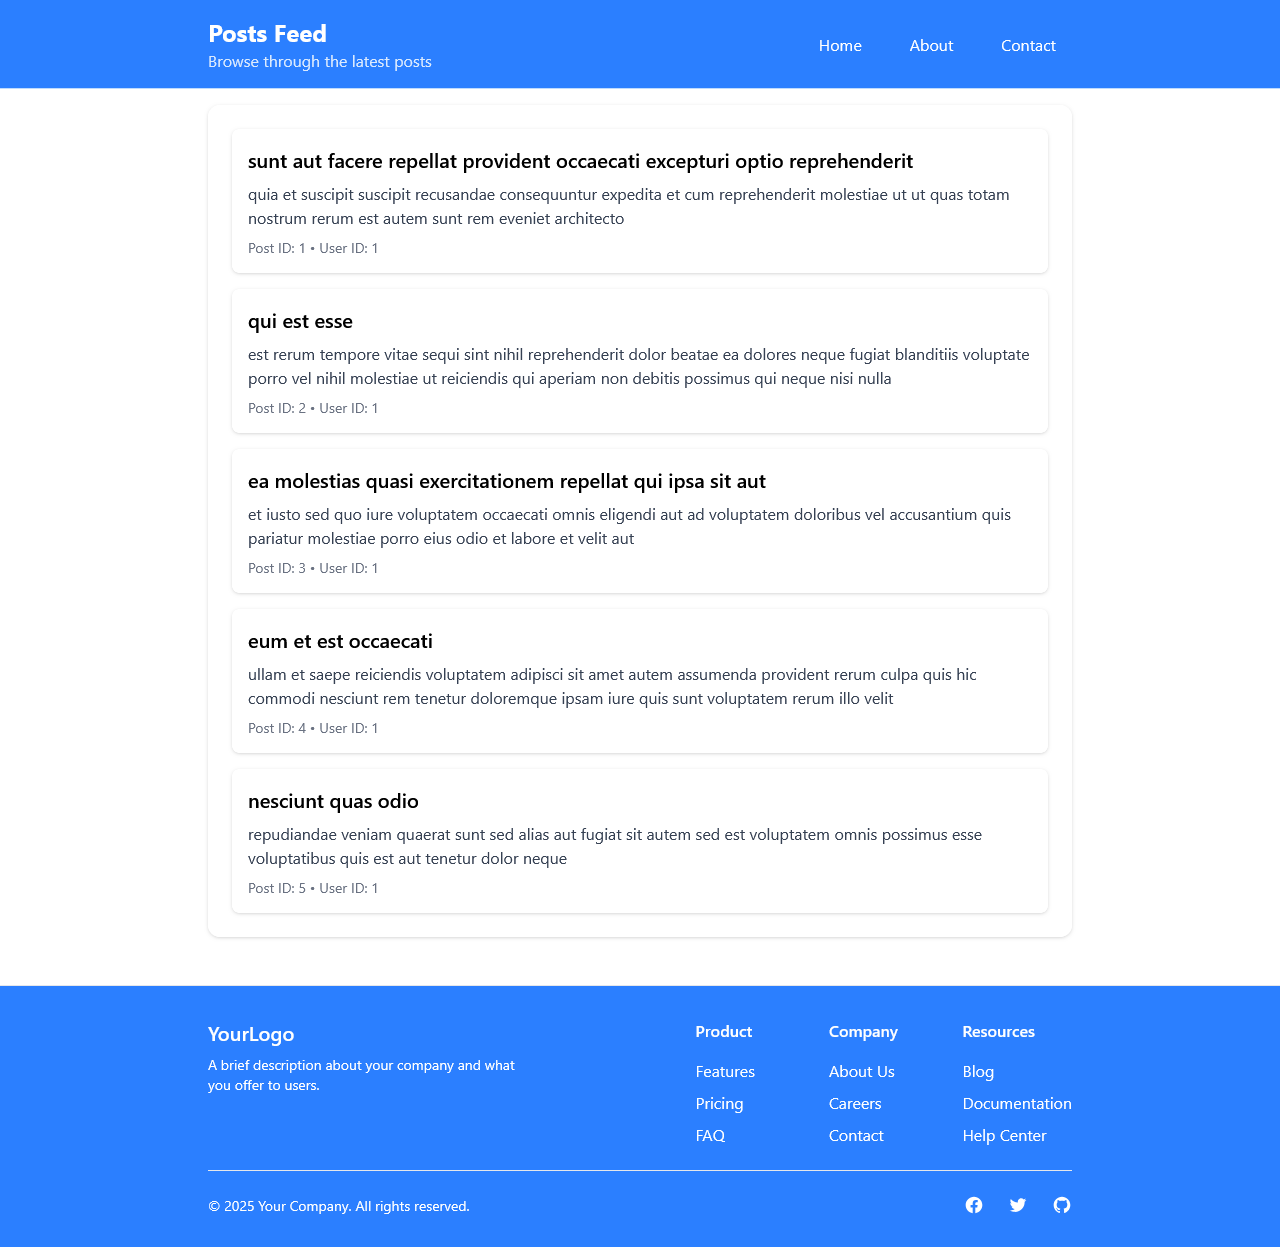
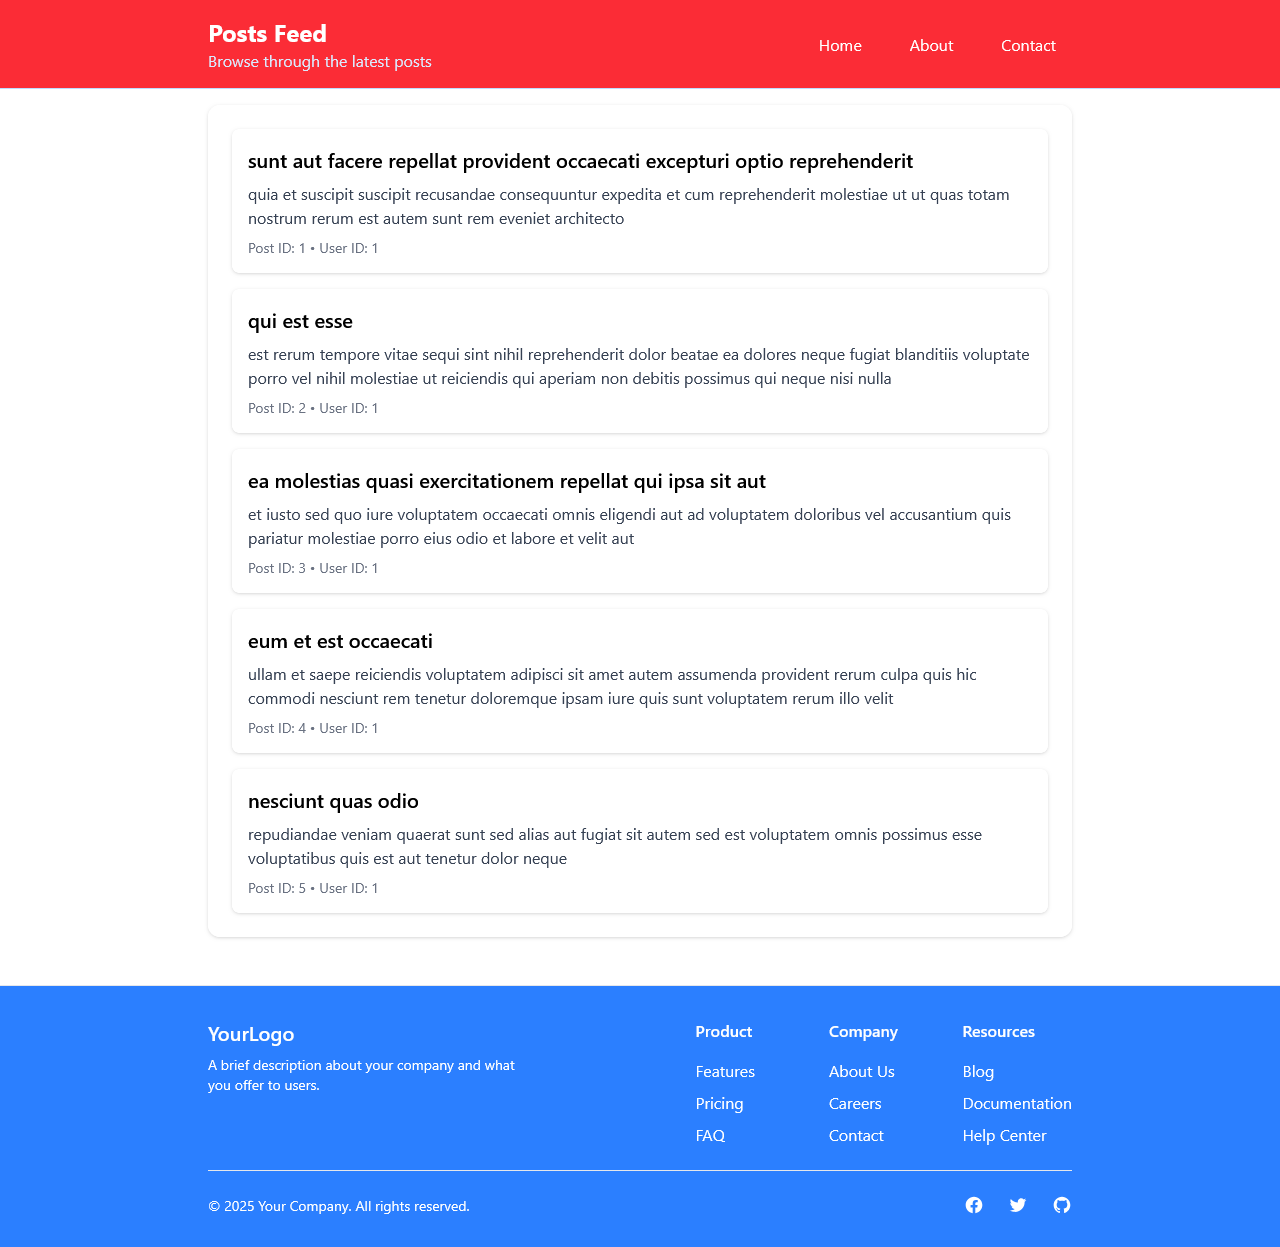
fix: change header background color to red and update button text color

Changed region(s): [[0.0, 0.0, 1.0, 0.0914]]

diff --git a/src/components/Header.tsx b/src/components/Header.tsx
@@ -24,7 +24,7 @@ const Header = ({
   };
 
   return (
-    <header className="bg-blue-500 border-b border-blue-200 py-4">
+    <header className="bg-red-500 border-b border-blue-200 py-4">
       <div className="mx-auto max-w-4xl px-4 flex justify-between items-center">
         <div>
           <h1 className="text-2xl font-bold text-white">{title}</h1>
@@ -38,7 +38,7 @@ const Header = ({
               aria-expanded={isMenuOpen}
               aria-label={isMenuOpen ? "Close menu" : "Open menu"}
               aria-controls="mobile-menu"
-              className="p-2 rounded-md text-gray-600 hover:text-gray-900 hover:bg-gray-100 focus:outline-none focus:ring-2 focus:ring-blue-500"
+              className="p-2 rounded-md text-white hover:text-white/80 hover:bg-white/10 focus:outline-none focus:ring-2 focus:ring-blue-500"
               onClick={handleMenuToggle}
               onKeyDown={handleKeyDown}
             >
